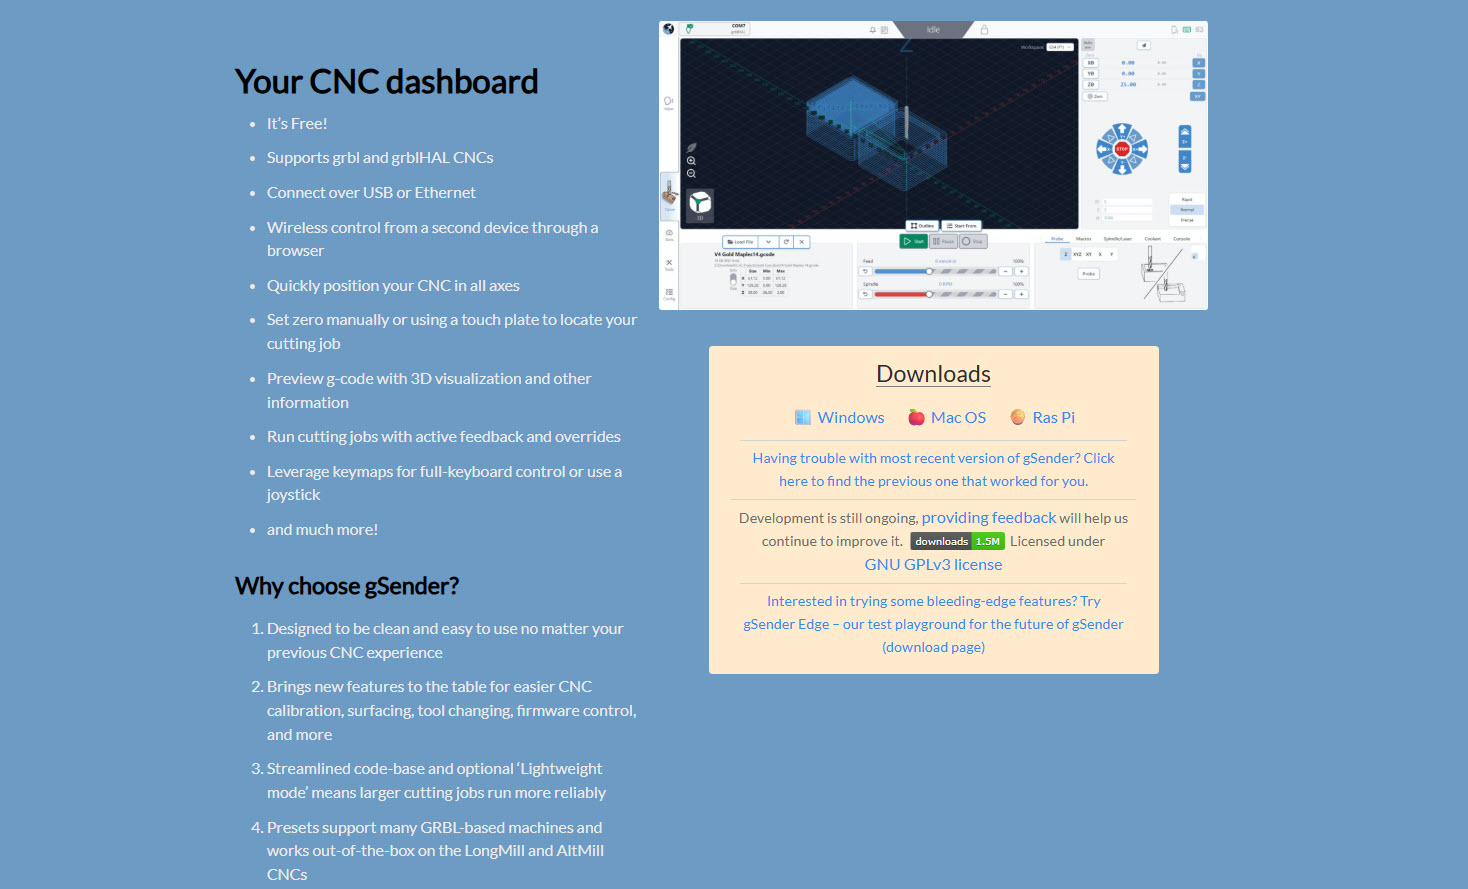
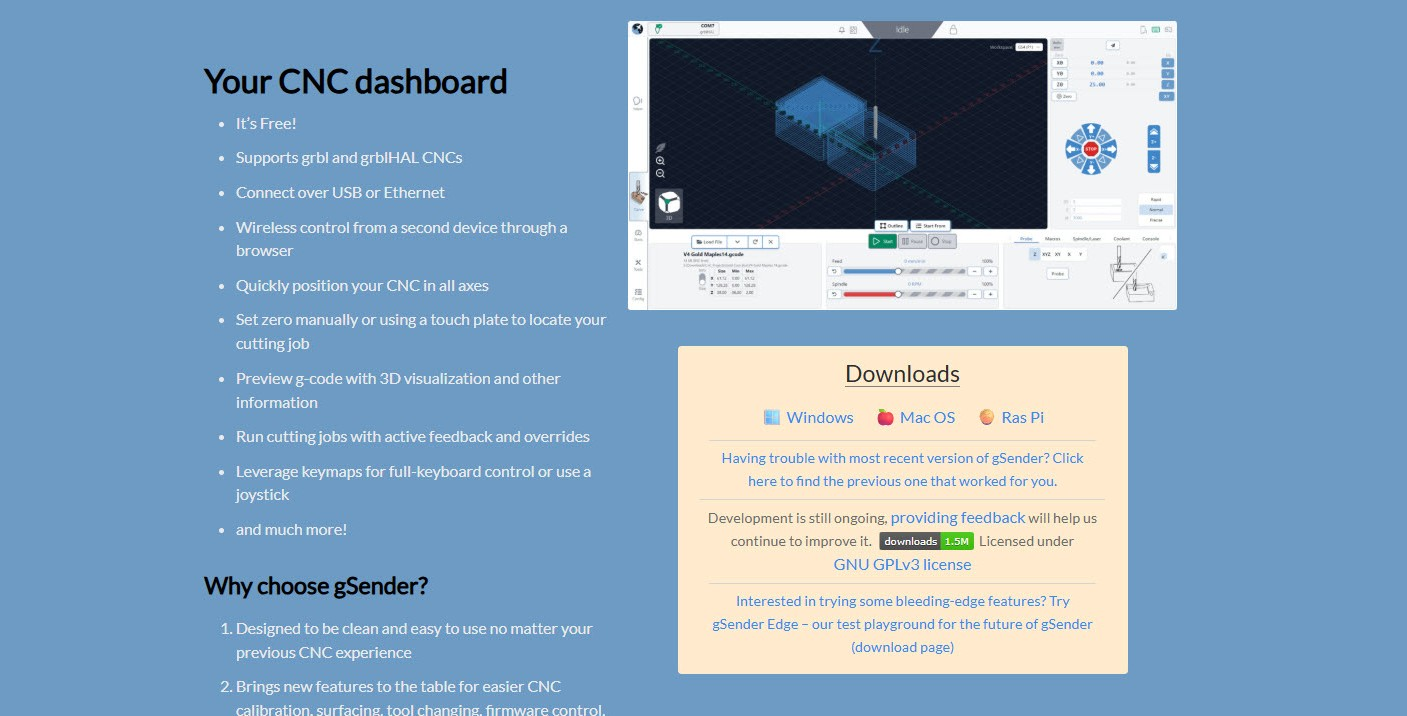
Fixed aspect ratios, tabs not needed during assembly

diff --git a/longmill/assembly/lm-electronics.md b/longmill/assembly/lm-electronics.md
@@ -77,33 +77,27 @@ You can download gSender here: <a href="https://sienci.com/gSender/" target="_bl
 
 ![](/_images/_lmmk2/_assembly/_checksmoves/lmk2_checksmoves_Header-computer-connect-1.jpg){.aligncenter .size-medium}
 
-Once you have gSender installed, go ahead and run it on your computer. One was is to double click the shortcut on your desktop.
+Once you have gSender installed, go ahead and run it on your computer. One way is to double click the shortcut on your desktop.
 
 ![](/_images/_longmill/_assembly/_electronics/lm_electronics_p12.png){.aligncenter .size-medium}
 
-You should be greeted with a screen that looks like this.
+You should be greeted with a screen that looks like this. It can take several extra seconds to load if you have Microsoft real time virus protection on your computer. This scan delay should only happen the first time you turn on your computer.
 
-[tabby title="Current gSender" open="yes"]
+![](/_images/_lmmk2/_assembly/_checksmoves/lmk2_checksmoves_67_2-1.jpg){.aligncenter .size-medium}
 
-![](../../_images/_lmmk2/_assembly/_checksmoves/lmk2_checksmoves_67_2.jpg){.aligncenter .size-medium}
+Now connect your computer to the LongMill control box via USB.
 
-[tabby title="Classic gSender"]
+<b>Note: Your computer will automatically install drivers for the Arduino at this point if they are not already on your computer (can take a minute or two). If you try to connect your machine but you cannot, you may need to manually install the drivers. You can do this by installing the <a href="https://www.arduino.cc/en/main/software">Arduino IDE</a> which will install the drivers during the installation, or you can follow the instructions on doing them <a href="https://www.arduino.cc/en/Guide/DriverInstallation">manually for Windows</a>.</b>
 
-![](/_images/_longmill/_assembly/_electronics/lm_electronics_p13.png){.aligncenter .size-medium}
+![](/_images/_longmill/_assembly/_electronics/lm_electronics_p13_v2.jpg "Plug in the USB cable onto the LongBoard.")"{.aligncenter .size-medium}
 
-[tabbyending]
+![](/_images/_longmill/_assembly/_electronics/lm_electronics_p14.JPG "Connect your USB cable to your computer.")"{.aligncenter .size-medium}
 
-Connect your computer to the LongMill control box via USB.
-
-[tabby title="Current gSender" open="yes"]
-
-When you double click the gSender icon to open up the program, it can take several extra seconds to load if you have Microsoft real time virus protection on your computer. This scan delay should only happen the first time you turn on your computer.
-
-![](/_images/_lmmk2/_assembly/_checksmoves/lmk2_checksmoves_notconnected.jpg){.aligncenter .size-medium}
-
-Connect to your CNC machine by hovering over the **Connect to CNC** button at the top left corner of the screen and clicking the first option (*note that it's recommended to connect this way on your first setup even if you're planning to use Ethernet in the long-run*).
+Once that is done, hover over the **Connect to CNC** button at the top left corner of the screen and click the first option. Sometimes there’s more than one port available, so you can either unplug the other items you have plugged in, or you can try connecting to each one to see which one is your LongMill (*note that it's recommended to connect this way on your first setup even if you're planning to use Ethernet in the long-run*).
 
 ![](/_images/_lmmk2/_assembly/_checksmoves/lmk2_checksmoves_connect.jpg){.aligncenter .size-medium}
+
+Once you’ve selected the port, your machine should be connected. If your machine is powered on, you will usually hear a gentle hiss and a thump noise when the machine connects which is a nice audible confirmation. If you don’t hear that sound, make sure you have released the E-stop so power is going to your machine – indicated by and orange power light on your control box.
 
 After a moment you should see the plug icon turn green with a checkmark, the status bar at the top, middle change from **Disconnected** to **Idle**, and all the controls in the app become coloured indicating that they're ready to be used.
 
@@ -112,30 +106,6 @@ After a moment you should see the plug icon turn green with a checkmark, the sta
 You can now try playing around with moving the machine. You can jog the machine in the direction you want within the "Jog Control" section on the right side. It’s alive!
 
 ![](/_images/_longmill/_assembly/_electronics/lm_electronics_p17-newu.jpg){.aligncenter .size-medium}
-
-[tabby title="Classic gSender"]
-
-<b>Note: Your computer will automatically install drivers for the Arduino at this point if they are not already on your computer (can take a minute or two). If you try to connect your machine but you cannot, you may need to manually install the drivers. You can do this by installing the <a href="https://www.arduino.cc/en/main/software">Arduino IDE</a> which will install the drivers during the installation, or you can follow the instructions on doing them <a href="https://www.arduino.cc/en/Guide/DriverInstallation">manually for Windows</a>.</b>
-
-![](/_images/_longmill/_assembly/_electronics/lm_electronics_p13_v2.jpg "Plug in the USB cable onto the LongBoard.")"{.aligncenter .size-medium}
-
-![](/_images/_longmill/_assembly/_electronics/lm_electronics_p14.JPG "Connect your USB cable to your computer.")"{.aligncenter .size-medium}
-
-Once that is done, hover to the top left corner of the program at “Connect to Machine”. You should see an available device to connect to. Sometimes there’s more than one port available, so you can either unplug the other items you have plugged in, or you can try connecting to each one to see which one is your LongMill.
-
-![](/_images/_longmill/_assembly/_electronics/lm_electronics_p15.png){.aligncenter .size-medium}
-
-Once you've selected the port, your machine should be connected. If your machine is powered on, you will usually hear a gentle hiss and a thump noise when the machine connects which is a nice audible confirmation. If you don’t hear that sound, make sure you have released the E-stop so power is going to your machine - indicated by and orange power light on your control box.
-
-You should also see "Connect to Machine" change to "Connected", the plug icon turn green with a check mark, the status on the top right corner of the visualizer change from "Disconnected" to "Idle", and the other controls that were greyed out will now be activated, allowing you to press them.
-
-![](/_images/_longmill/_assembly/_electronics/lm_electronics_p16.png){.aligncenter .size-medium}
-
-You can now try playing around with moving the machine. You can jog the machine in the direction you want within the "Jog Control" section on the right side. It’s alive!
-
-![](/_images/_longmill/_assembly/_electronics/lm_electronics_p17.png){.aligncenter .size-medium}
-
-[tabbyending]
 
 You can choose the amount that the machine will move in the XY directions by changing the “XY move”, the amount in the Z direction with “Z move”, and the feed rate / speed of movement with “Speed.” gSender has defaults for large, medium, and small movements that you can switch between by pressing the "Rapid", "Normal", and "Precise" buttons.
 

diff --git a/lmmk2/assembly/lmk2-checks-and-first-moves.md b/lmmk2/assembly/lmk2-checks-and-first-moves.md
@@ -70,73 +70,31 @@ Next we will be connecting to your computer, booting up gSender and then running
 To manipulate your LongMill and send it files, you’ll need a g-code sender which acts as the ‘control software’ or ‘machine interface’ to your CNC:
 
 <ol>
-  <li><b>We recommend using gSender</b> for this since it’s our own software and easy to use</li>
+  <li><b>We recommend using gSender</b> for this since it’s our own software and it's easy to use</li>
   <li>We’ll use gSender for the remaining assembly steps, download it here: <a href="https://sienci.com/gSender/"><b>https://sienci.com/gSender/</b></a> and choose for Windows / PC , Mac, Linux, or others.</li>
   <li>If you get stuck at any point or want to learn more about gSender you can always <a href="https://resources.sienci.com/view/gs-installation/" target="_blank" rel="noopener">find more help here</a></li>
   <li>There are still other options you can see in our ‘Software’ resources if you prefer them, but make sure they are able to communicate with "<b>grblHAL</b>" machines, if they only support "grbl" then they won't work for your LongMill</li>
 </ol>
 
-![](/_images/_lmmk2/_assembly/_checksmoves/lmk2_checksmoves_67_1.jpg){.aligncenter .size-medium}
-
 Once you have gSender installed, go ahead and run it on your computer. One way is to double-click the shortcut on your desktop.
 
-[tabby title="Current gSender" open="yes"]
+![](/_images/_lmmk2/_assembly/_checksmoves/lmk2_checksmoves_67_1.jpg){.aligncenter .size-medium}
 
-![](../../_images/_lmmk2/_assembly/_checksmoves/lmk2_checksmoves_67_2.jpg){.aligncenter .size-medium}
+You should be greeted with a screen that looks like this. It can take several extra seconds to load if you have Microsoft real time virus protection on your computer. This scan delay should only happen the first time you turn on your computer.
 
-<p style="text-align: center;"><em>You should be greeted with a screen that looks like this.</em></p>
-
-[tabby title="Classic gSender"]
-
-![](/_images/_longmill/_assembly/_electronics/lm_electronics_p13.png){.aligncenter .size-medium}
-
-<p style="text-align: center;"><em>You should be greeted with a screen that looks like this.</em></p>
-
-[tabbyending]
+![](/_images/_lmmk2/_assembly/_checksmoves/lmk2_checksmoves_67_2-1.jpg){.aligncenter .size-medium}
 
 At this stage it’s time to connect your computer to the LongMill control box via the provided USB cable and **flip the power switch to turn on power to the machine**. The USB port on the control box is on the right side.
 
 ![](/_images/_lmmk2/_assembly/_checksmoves/lmk2_checksmoves_USB-board-computer.png){.aligncenter .size-medium}
 
-[tabby title="Current gSender" open="yes"]
-
-When you double click the gSender icon to open up the program, it can take several extra seconds to load if you have Microsoft real time virus protection on your computer. This scan delay should only happen the first time you turn on your computer.
-
-![](/_images/_lmmk2/_assembly/_checksmoves/lmk2_checksmoves_notconnected.jpg){.aligncenter .size-medium}
-
-Connect to your CNC machine by hovering over the **Connect to CNC** button at the top left corner of the screen and clicking the first option (*note that it's recommended to connect this way on your first setup even if you're planning to use Ethernet in the long-run*).
+Once that is done, hover over the **Connect to CNC** button at the top left corner of the screen and click the first option. Sometimes there’s more than one port available, so you can either unplug the other items you have plugged in, or you can try connecting to each one to see which one is your LongMill (*note that it's recommended to connect this way on your first setup even if you're planning to use Ethernet in the long-run*).
 
 ![](/_images/_lmmk2/_assembly/_checksmoves/lmk2_checksmoves_connect.jpg){.aligncenter .size-medium}
 
 After a moment you should see the plug icon turn green with a checkmark, the status bar at the top, middle change from **Disconnected** to **Idle**, and all the controls in the app become coloured indicating that they're ready to be used.
 
 ![](/_images/_lmmk2/_assembly/_checksmoves/lmk2_checksmoves_connect2.jpg){.aligncenter .size-medium}
-
-[tabby title="Classic gSender"]
-
-When you double click the gSender icon to open up the program, it can take several extra seconds to load if you have Microsoft real time virus protection on your computer. This scan delay should only happen the first time you turn on your computer.
-
-Once that is done, hover over the top left corner of the program at “Connect to Machine” (with the board powered on).
-
-![](/_images/_lmmk2/_assembly/_checksmoves/lmk2_checksmoves_-Connect-1.png){.aligncenter .size-medium}
-
-Connecting to the SLB, requires you to click the gray bar at the bottom labelled Firmware.
-
-![](/_images/_lmmk2/_assembly/_checksmoves/lmk2_checksmoves_-Connect-2.png){.aligncenter .size-medium}
-
-The grey area will open up, revealing two choices. We want to click on **grblHAL**.
-
-![](/_images/_lmmk2/_assembly/_checksmoves/lmk2_checksmoves_-Connect-3.png){.aligncenter .size-medium}
-
-With the SLB, we have the option to connect via USB or Ethernet. Under Recognized Devices there should be one option, let’s select that.
-
-![](/_images/_lmmk2/_assembly/_checksmoves/lmk2_checksmoves_-Connect-4.png){.aligncenter .size-medium}
-
-Congrats! You have connected to your new LongMill! Since USB is plug and play, we’ve selected it now and can connect via Ethernet at a later time.
-
-![](/_images/_lmmk2/_assembly/_checksmoves/lmk2_checksmoves_-Connect-5.png){.aligncenter .size-medium}
-
-[tabbyending]
 
 With “Connect to Machine” changed to “Connected”, the plug icon turned green with a check mark, the status on the top right corner of the visualizer changed from “Disconnected” to “Idle”, and the other controls that were greyed now being activated, it’s time to take your CNC for a drive!
 

diff --git a/lmmk2/software/ytsb-lmk2-choosing-software.md b/lmmk2/software/ytsb-lmk2-choosing-software.md
@@ -408,7 +408,7 @@ The full list of grbl-compatible senders is generally maintained here: <a href="
 
 This software is designed to be clean and easy to use no matter your previous CNC experience. It has a variety of features such as macros, CNC calibration, surfacing, tool changing, and firmware control. gSender supports many grbl-based machines and works out-of-the-box on the LongMill CNC.
 
-![](/_images/_longmill/_software/lm_choosingsoft_p13_gSender.jpg){.aligncenter .size-medium}
+![](/_images/_longmill/_software/lm_choosingsoft_p13_gSender2.jpg){.aligncenter .size-full}
 
 [tabby title="UGS"]
 

diff --git a/longmill/software/ytsb-lm-choosing-software.md b/longmill/software/ytsb-lm-choosing-software.md
@@ -410,7 +410,7 @@ The full list of grbl-compatible senders is generally maintained here: <a href="
 
 This software is designed to be clean and easy to use no matter your previous CNC experience. It has a variety of features such as macros, CNC calibration, surfacing, tool changing, and firmware control. gSender supports many grbl-based machines and works out-of-the-box on the LongMill CNC.
 
-![](/_images/_longmill/_software/lm_choosingsoft_p13_gSender.jpg){.aligncenter .size-medium}
+![](/_images/_longmill/_software/lm_choosingsoft_p13_gSender2.jpg){.aligncenter .size-full}
 
 [tabby title="UGS"]
 
